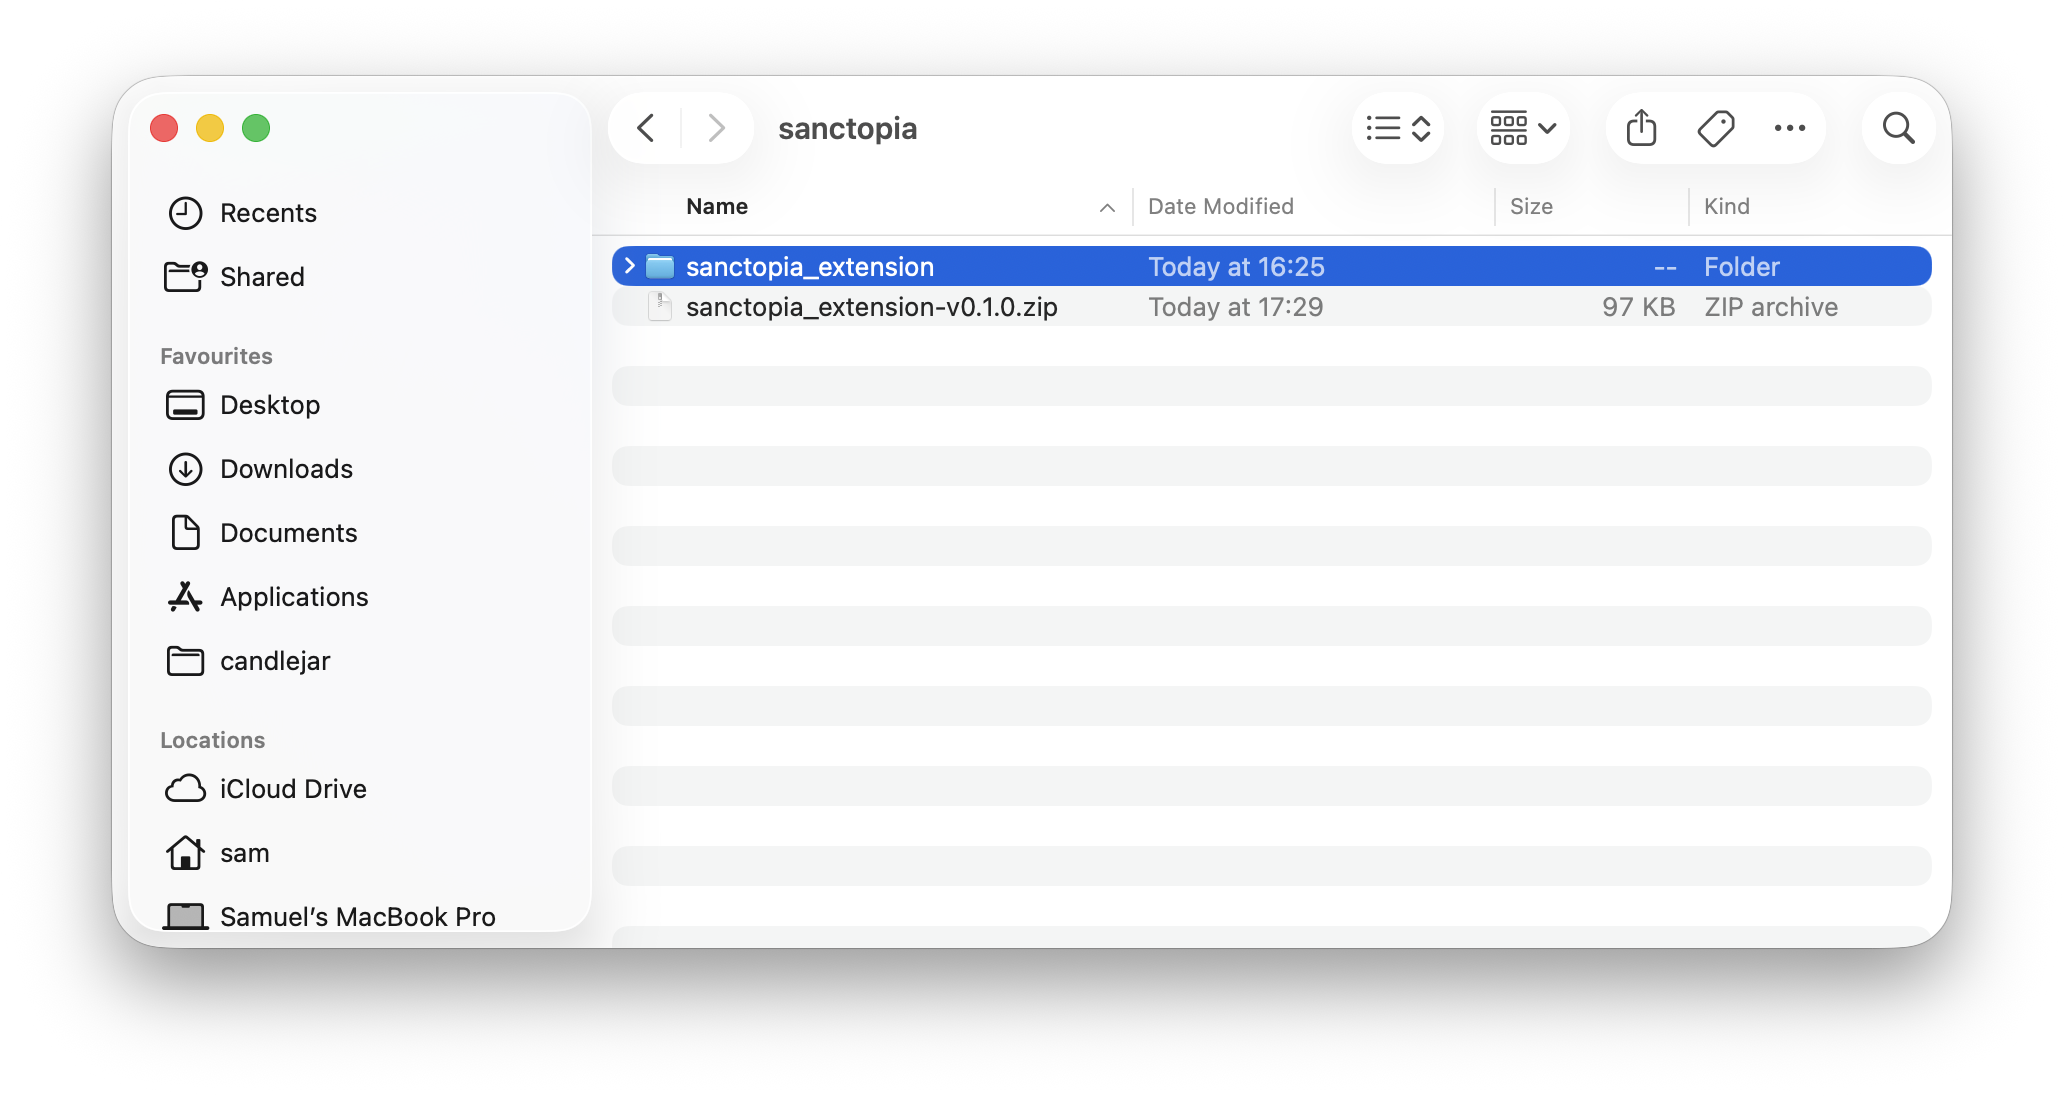
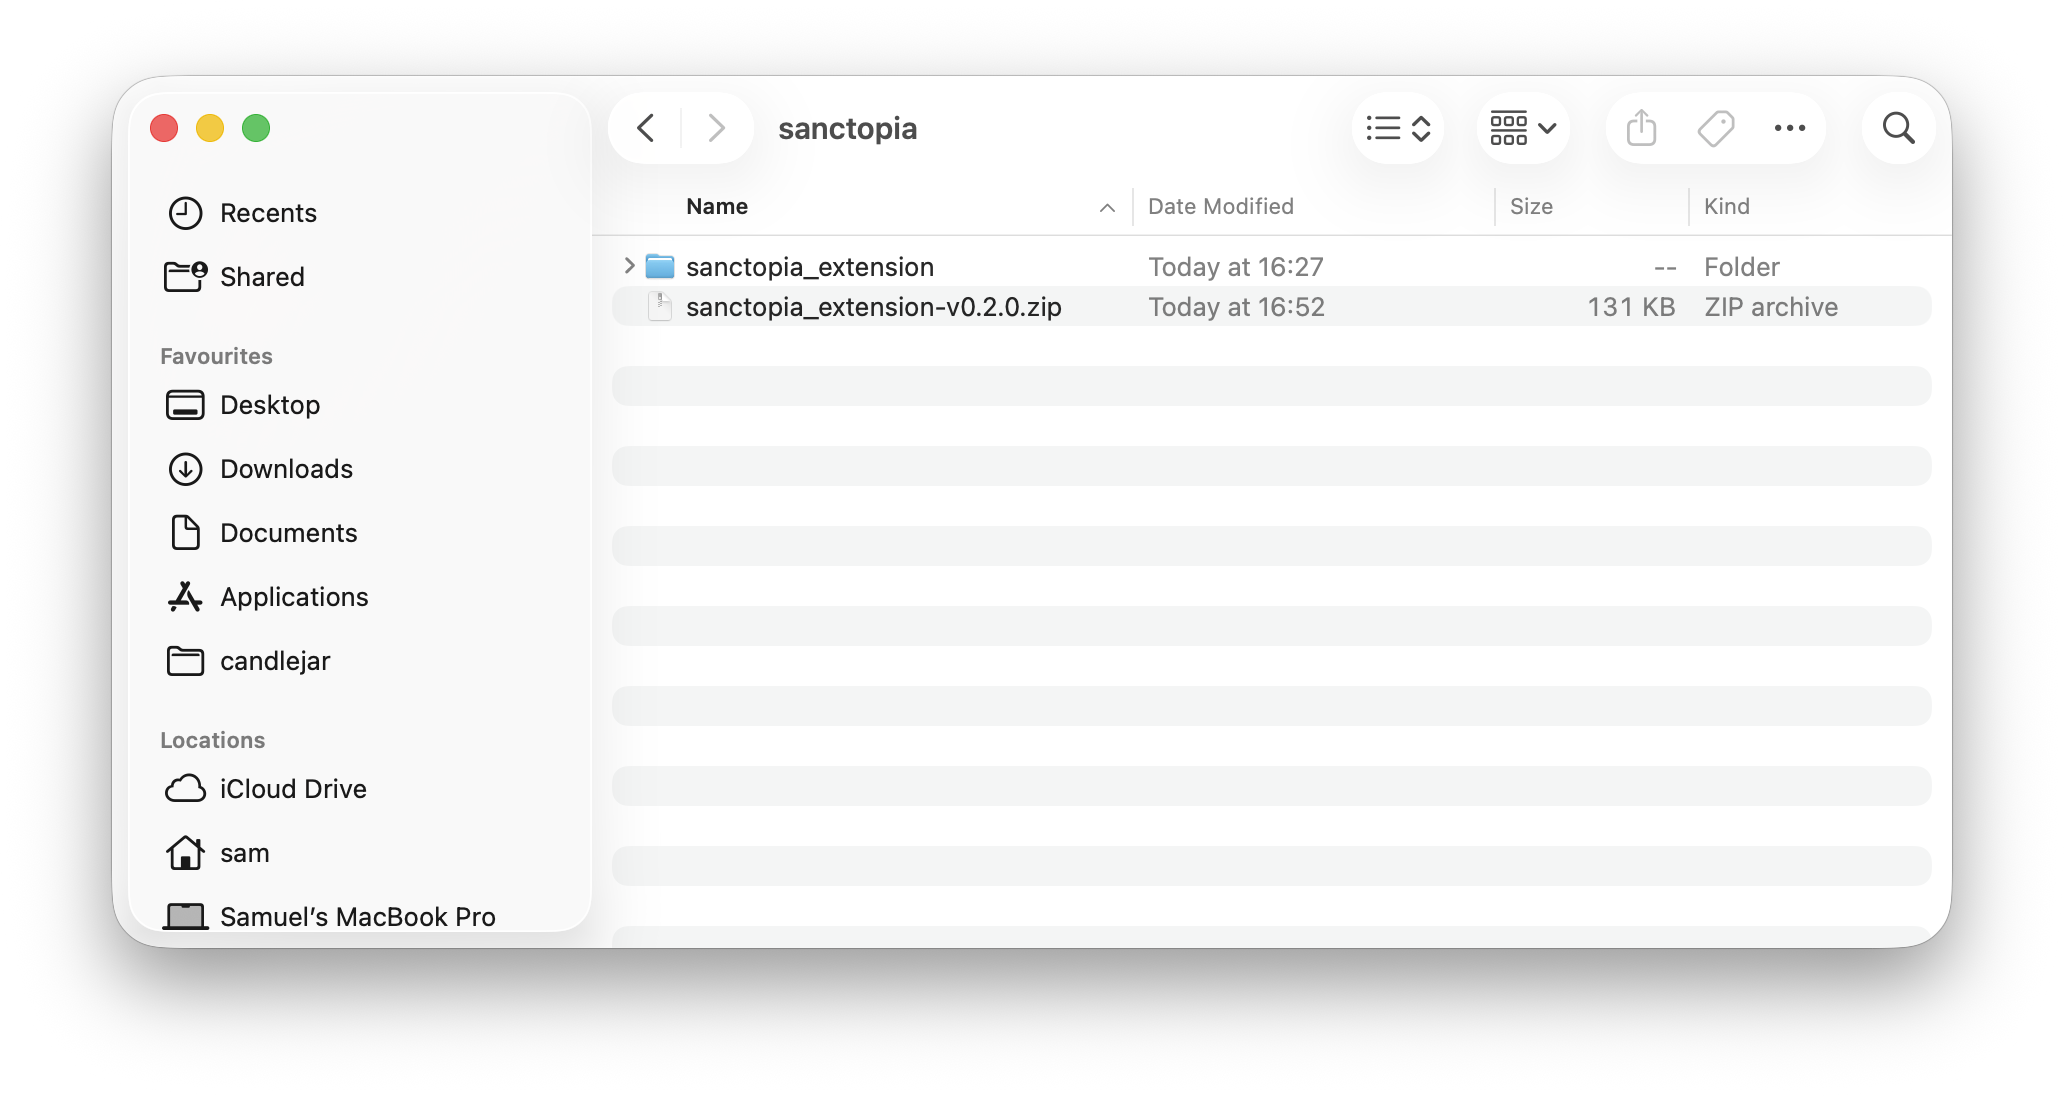
Update doc for extension 0.2.0

Changed region(s): [[0.2791, 0.2172, 0.9612, 0.3102], [0.7752, 0.0931, 0.8062, 0.1241]]

diff --git a/docs/extension.md b/docs/extension.md
@@ -13,11 +13,11 @@ Cette extension reproduit automatiquement les étapes qui devraient être effect
 
 ### Télécharger l'extension
 
-Vous pouvez télécharger l'extension via ce lien : [https://github.com/sanctopia/sanctopia_helloasso_extension/releases/tag/v0.1.0](https://github.com/sanctopia/sanctopia_helloasso_extension/releases/tag/v0.1.0)
+Vous pouvez télécharger l'extension via ce lien : [https://github.com/sanctopia/sanctopia_helloasso_extension/releases/tag/v0.2.0](https://github.com/sanctopia/sanctopia_helloasso_extension/releases/tag/v0.2.0)
 
-Cliquez sur **sanctopia_extension-v0.1.0.zip** en bas de la page.
+Cliquez sur **sanctopia_extension-v0.2.0.zip** en bas de la page.
 
-![Download](./img/download.png)
+![Download](./img/download.jpeg)
 
 ### Extraire l'extension
 
@@ -25,7 +25,7 @@ Le fichier téléchargé est un fichier zip qu'il faut décompresser pour accéd
 
 #### Mac
 
-Sur Mac, double-cliquez sur le fichier `sanctopia_extension-v0.1.0.zip`.
+Sur Mac, double-cliquez sur le fichier `sanctopia_extension-v0.2.0.zip`.
 
 ![Unzip](./img/unzip_mac.png)
 
@@ -33,7 +33,7 @@ Un dossier `sanctopia_extension` sera créé.
 
 #### Windows
 
-Sur Windows, faites un clic droit sur le fichier `sanctopia_extension-v0.1.0.zip`, puis sélectionnez **Extraire tout...**.
+Sur Windows, faites un clic droit sur le fichier `sanctopia_extension-v0.2.0.zip`, puis sélectionnez **Extraire tout...**.
 
 Une fenêtre s'ouvrira pour choisir l'emplacement d'extraction. Cliquez sur **Extraire**.
 
